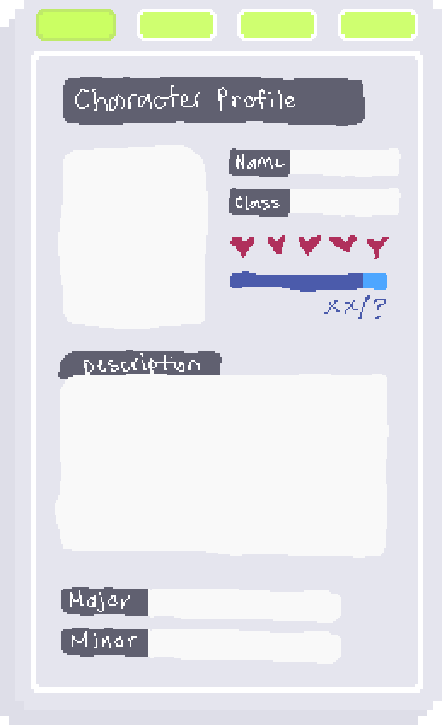
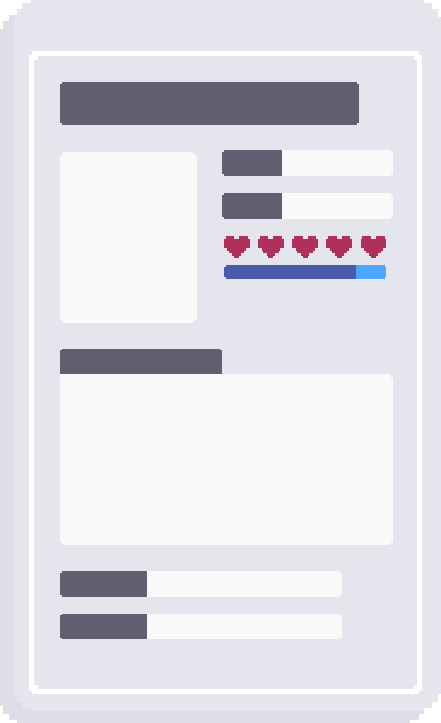
Polish CharProf img

diff --git a/hhytt-website/index.html b/hhytt-website/index.html
@@ -23,7 +23,7 @@
                 <div class="progress-bar bg-success" role="progressbar" style="width: 75%" aria-valuenow="75" aria-valuemin="0" aria-valuemax="100"></div>
             </div>
 
-            <div class="container">
+            <hidden div class="container">
                 <div class="row m-3 mb-5 pt-5">
                     <h4 class="pixelmania">CHARACTER PROFILE</h4>
                 </div>
@@ -42,7 +42,7 @@
                         <p class="depixelklein text-center" id="tab4P">p</p>
                     </div>
                     <div class="ui regUI depixelklein" id="charStatBlock">
-                        <div class="container fullHeight">
+                        <div class="container fullHeight position">
                             <div class="row" style="margin-top: 76px;">
                                 <div class="col-5"></div>
                                 <div class="col-7">
@@ -189,16 +189,16 @@
                     <img src="imgs/Hailey.png" class="center" id="character" width="300px" alt="Hailey's avatar">
                 </div>
 
-                <div id="adelie">
+                <!-- <div id="adelie">
                     <img src="imgs/ad.png" class="center" id="adelieImg" width="125px" alt="Adelie Penguin">
                 </div>
                 <div id="littleBlue">
                     <img src="imgs/lb.png" class="center" id="littleBlueImg" width="100px" alt="Little Blue Penguin">
-                </div>
-
-                <img src="imgs/CharProf.png">
+                </div> -->
                 
             </div>
+
+            <!-- <img src="imgs/CharProf.png"> -->
 
         </main>
 

diff --git a/hhytt-website/src/index.css b/hhytt-website/src/index.css
@@ -48,6 +48,10 @@ li::marker {
   height: 100%;
 }
 
+.position {
+  position: absolute;
+}
+
 .center {
   margin: auto;
 }
@@ -75,14 +79,30 @@ li::marker {
 
   /* top: 36px; */
 
-  width: 362px;
-  height: 592px;
+  /* width: 362px;
+  height: 592px; */
+  width: 400px;
+  height: 653px;
+  /* width: 25vw;
+  height: 70vh; */
   background-position: center;
   background-repeat: no-repeat;
   background-size: contain;
 
+  /* container-type: inline-size; */
+
   visibility: hidden;
 }
+
+/* @container (max-width: 375px) {
+  .regUI p {
+    font-size: 1vw;
+  }
+} */
+
+/* .regUI .row {
+  font-size: 1vw;
+} */
 
 .regTab {
   width: 90.38px;
@@ -197,7 +217,8 @@ li::marker {
 #projects:has(#arrowR:active) { background-image: url("/imgs/ProjRight.png"); }
 
 #charStatBlock {
-  background-image: url("/imgs/CharStatBlock.png");
+  /* background-image: url("/imgs/CharStatBlock.png"); */
+  background-image: url("/imgs/CharProf.png");
 }
 
 #inventory {
